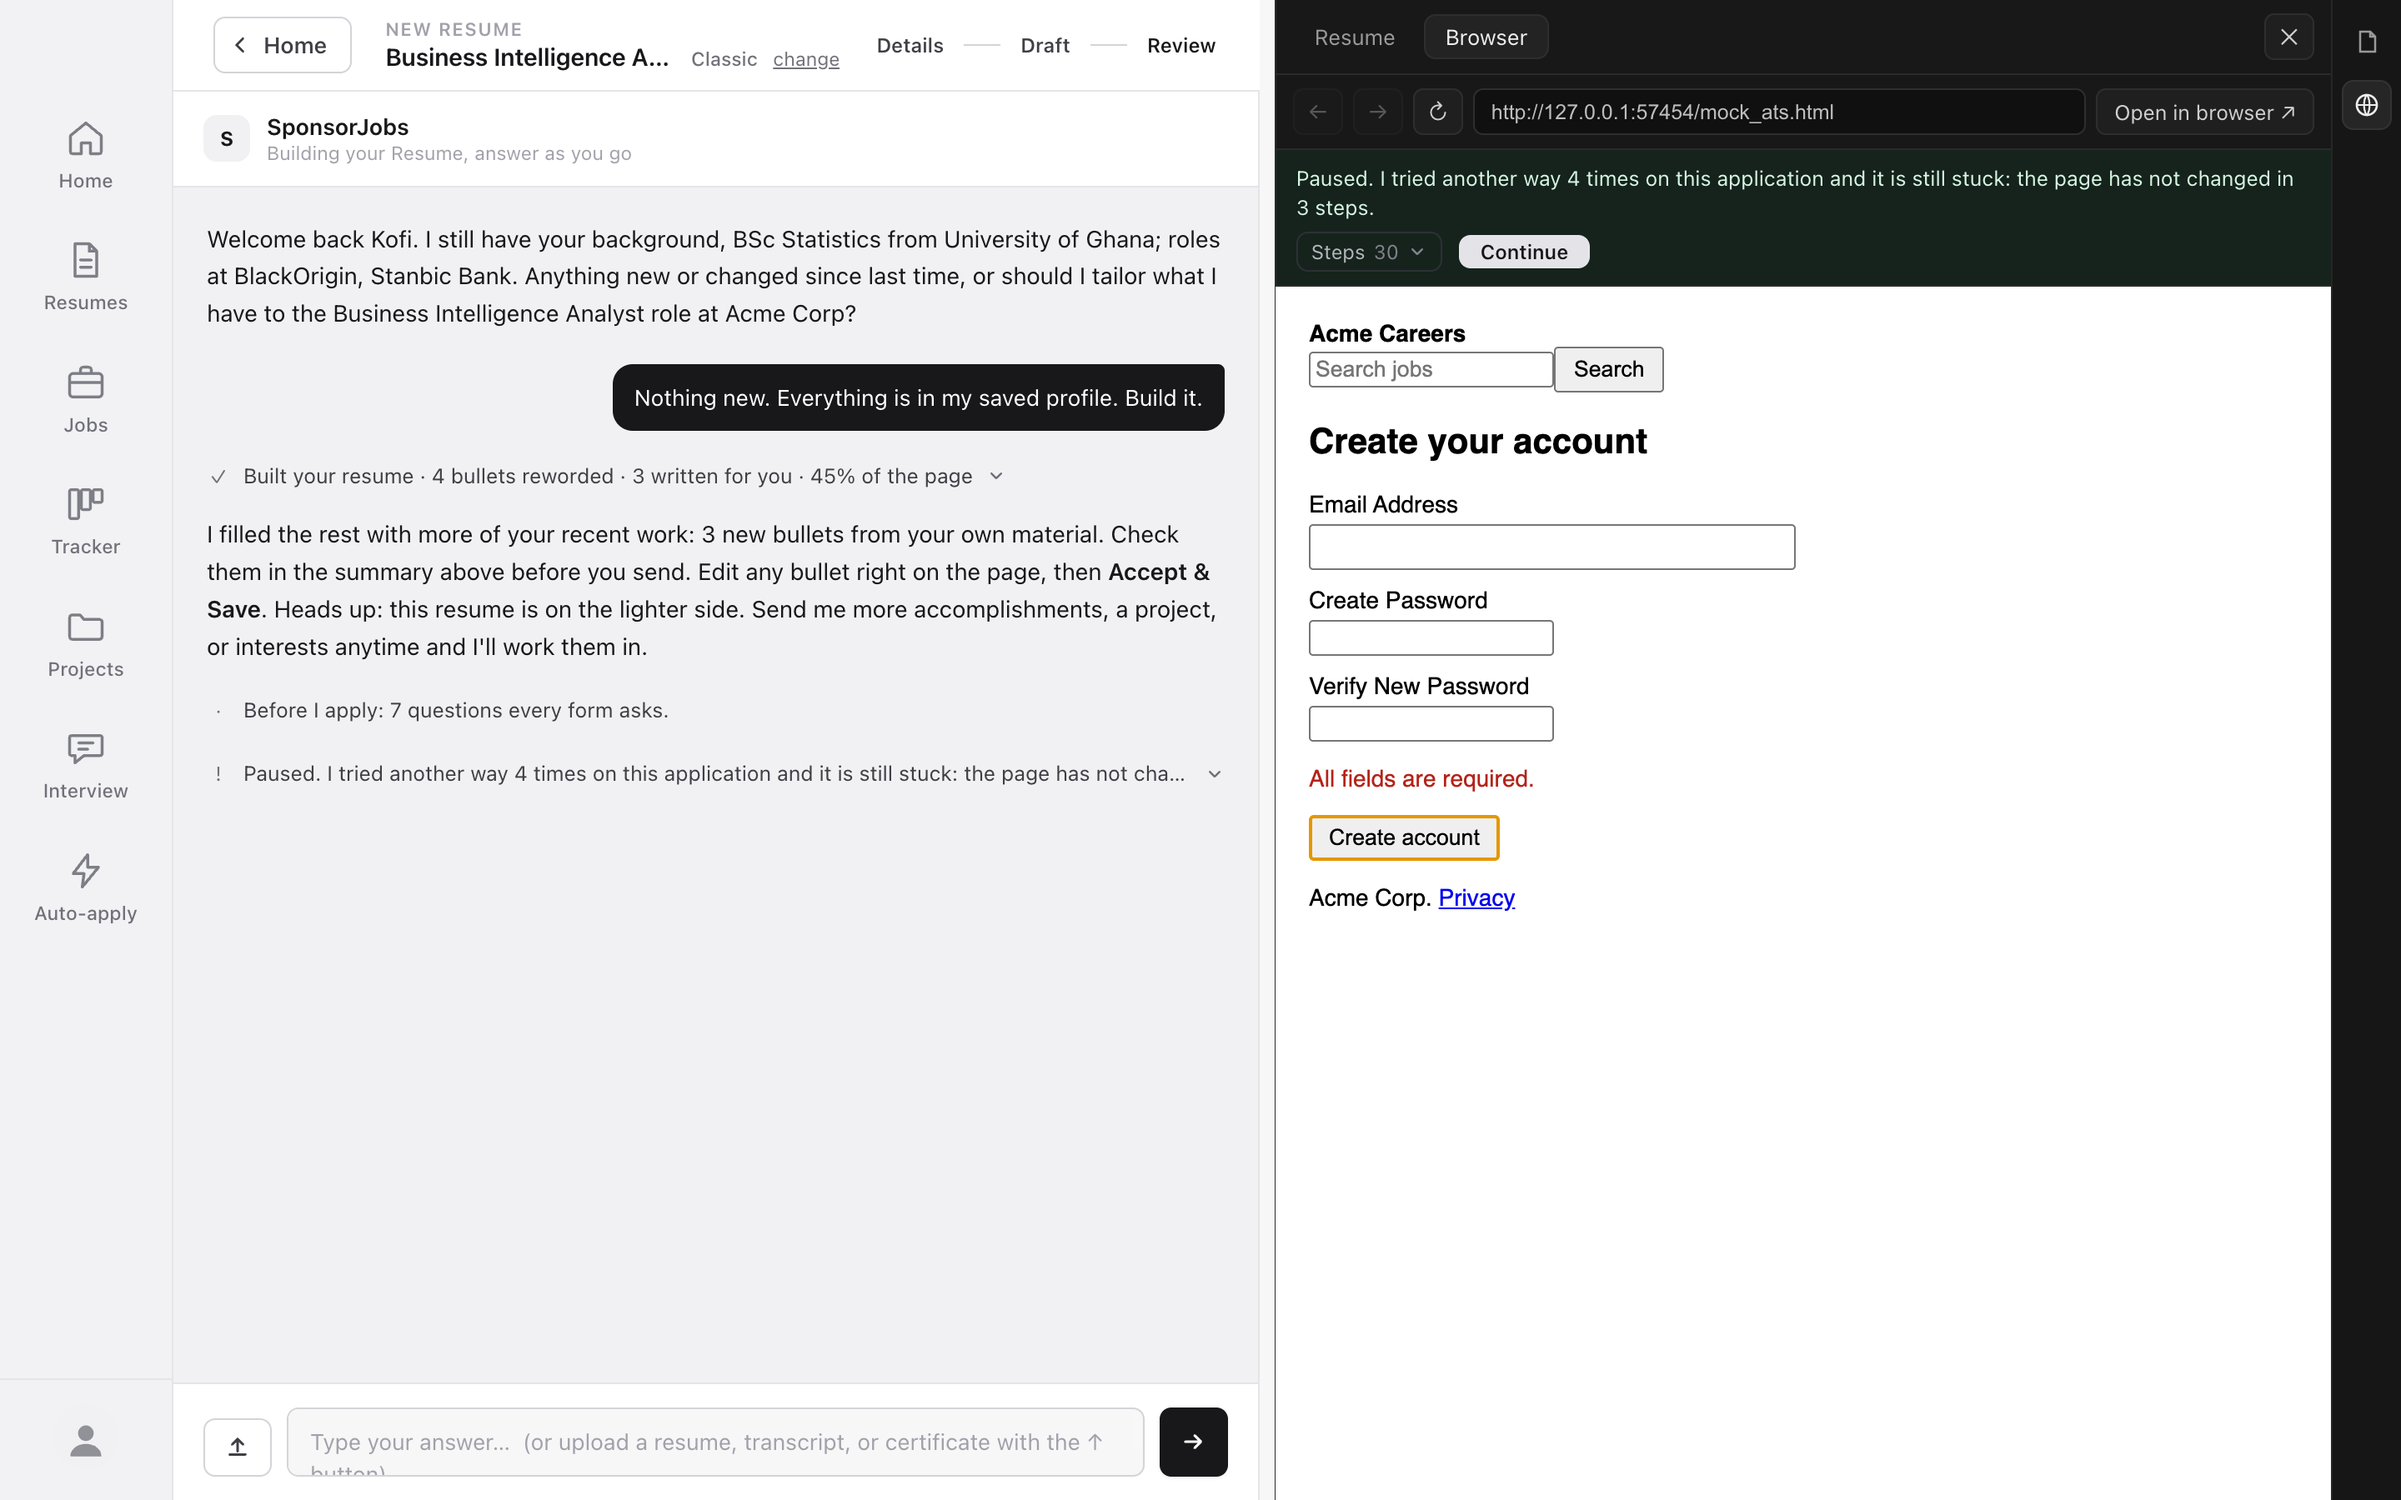
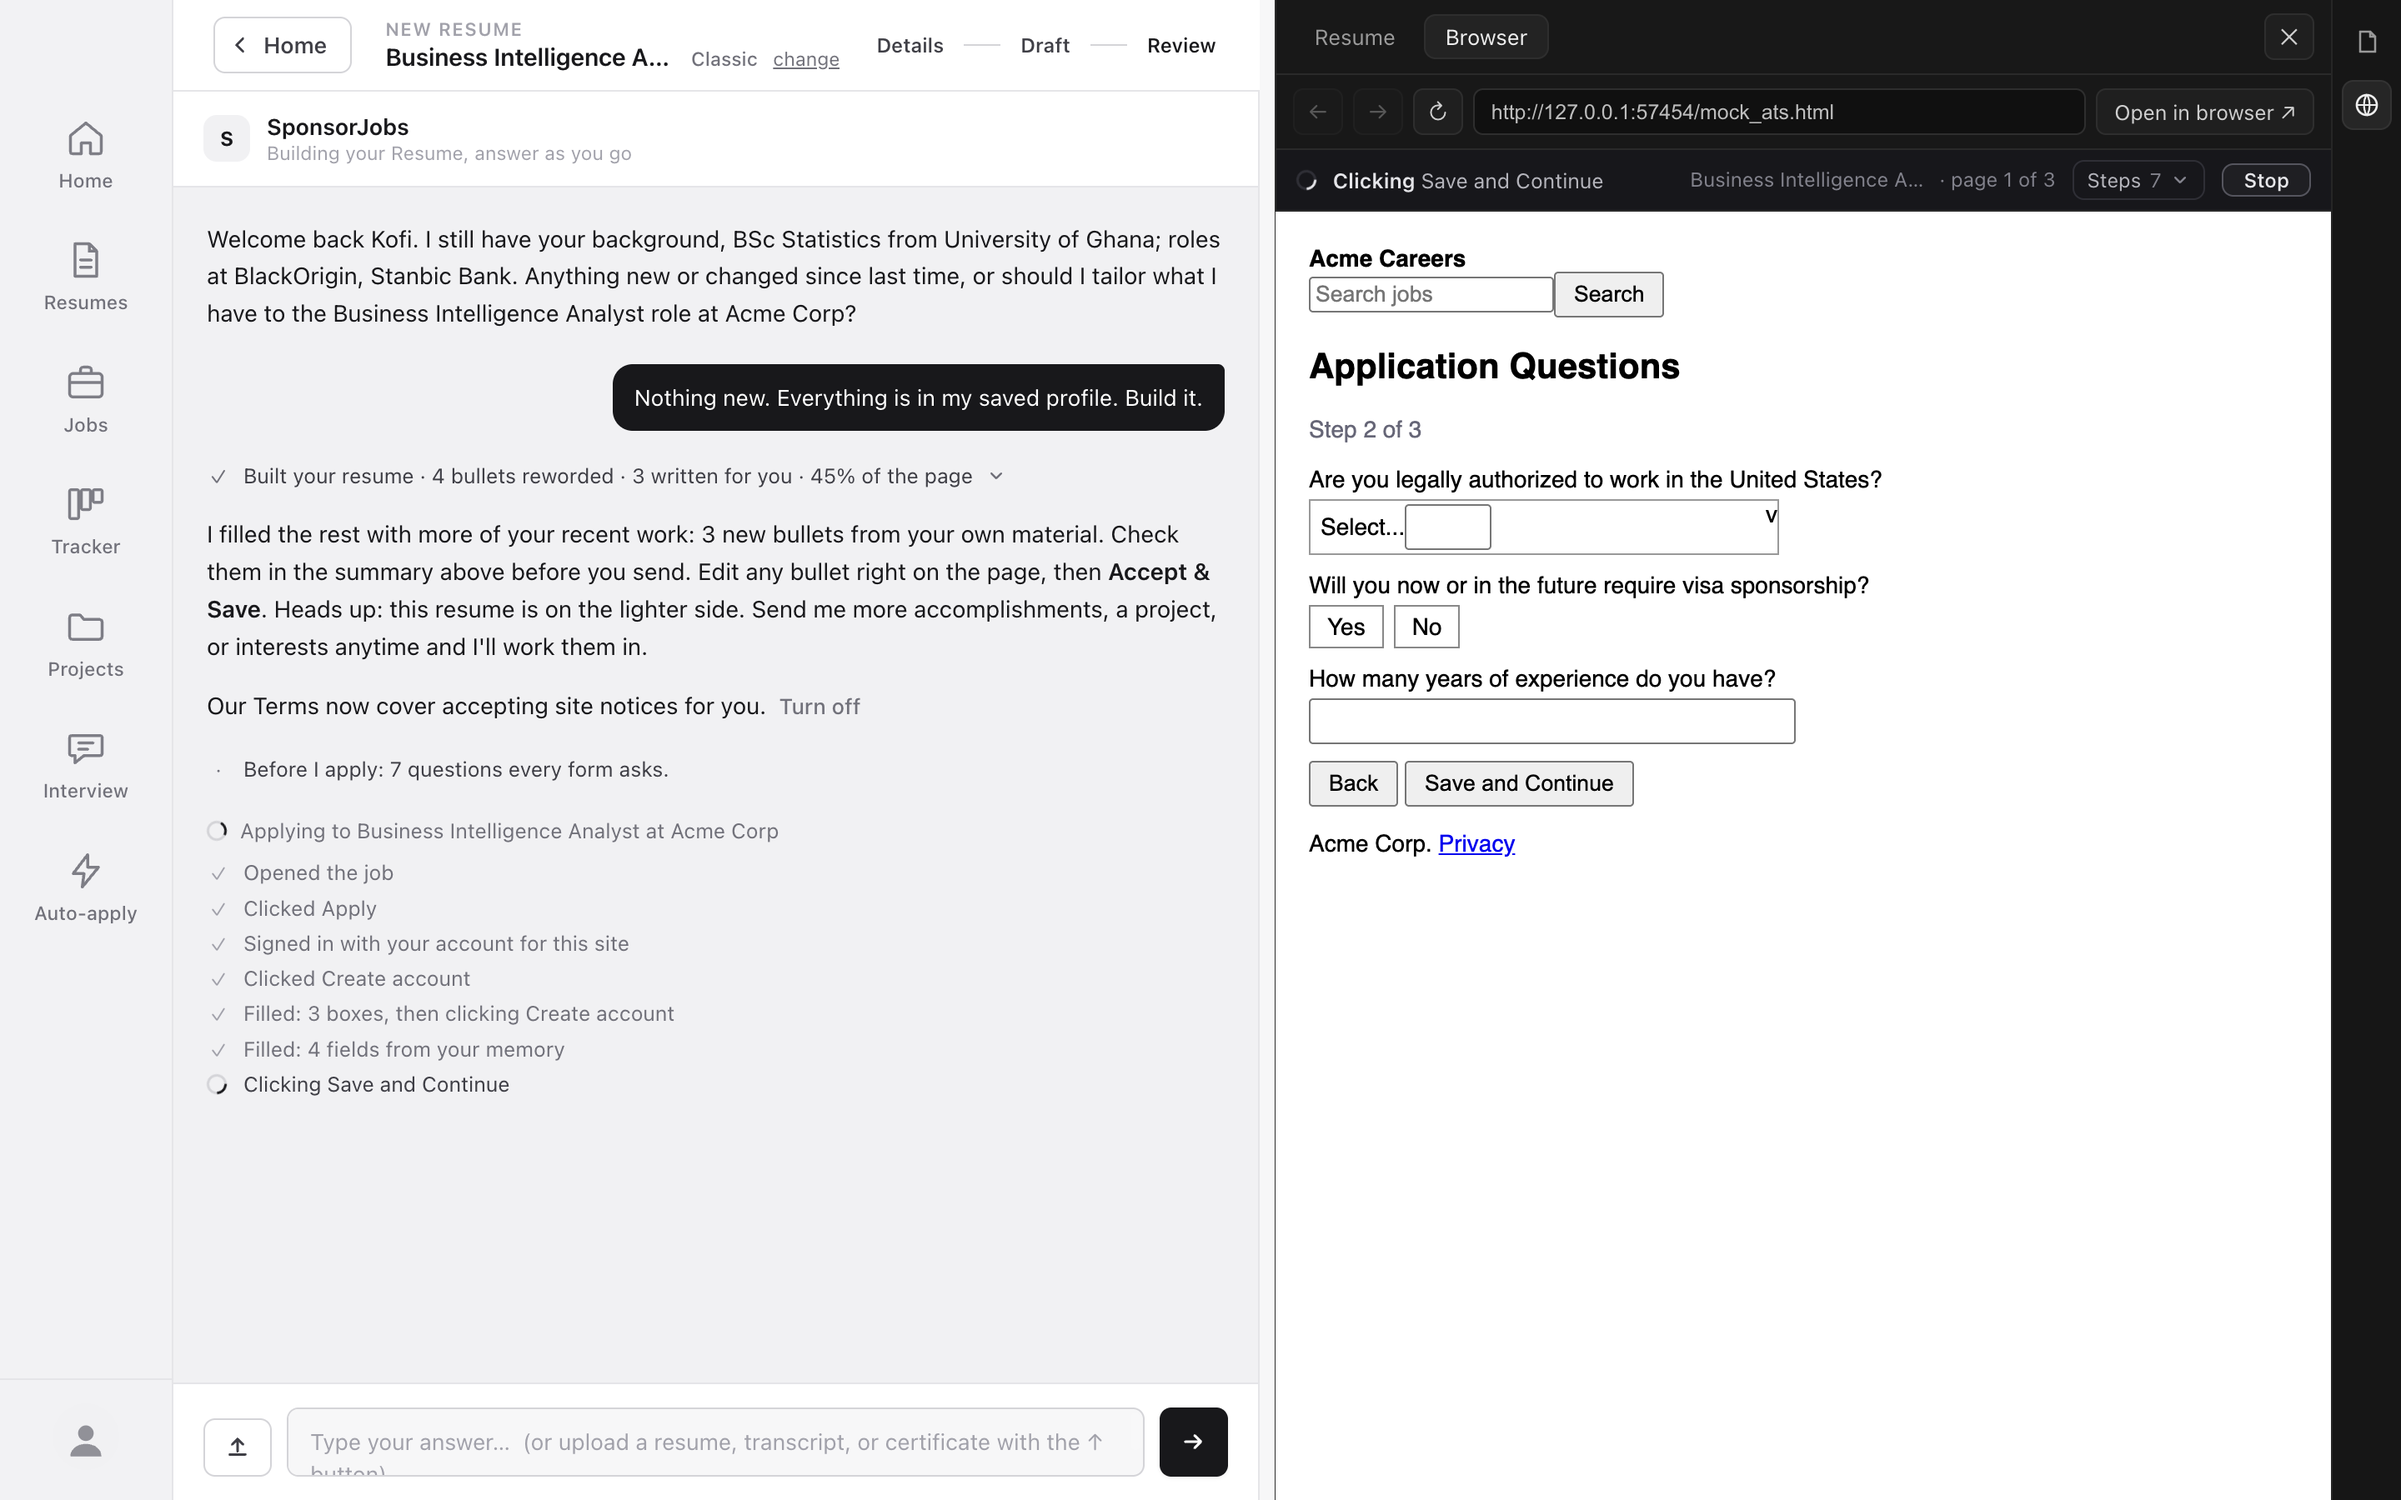
Apply: Terms line before the first run, the job's name in the chat heading, a declined Projects reply never becomes a project
- A fresh app never saw the Auto-apply page's Terms line, so account creation stayed off and the
  agent stuck on the create-account page (e2e). Apply shows the same one line first.
- The live chat heading read "Applying to undefined at undefined": it falls back to the chat's
  role.
- "None, leave it off. Build it." was not read as a decline and was saved into projects as a
  string, which crashed the next turn. The decline pattern takes a trailing "build it", list
  sections never take a raw reply, and stray non-dict entries are dropped.

e2e-apply-step: 32 checks, the job run end to end (account, every page, tailored resume, stop at
Submit, Send, Tracker Applied) and the pasted job asking for its link.

Changed region(s): [[0.5312, 0.0933, 0.9688, 0.6222], [0.0938, 0.4667, 0.4688, 0.7467]]

diff --git a/ui/static/app.js b/ui/static/app.js
@@ -4750,6 +4750,7 @@
       return;
     }
     refreshLiveNav();
+    await builderTermsLine();
     if (r.submitted) { bubble("agent", esc(T("builder.applyAlready", "You already applied to this job. It is on the Tracker."))); return; }
     applyChatStart(r.record_id, r.item || {});
     if (AA_AGENT) { applyChatEnd(T("aa.agentBusy", "One application at a time. Stop the current one first."), false); return; }
@@ -4768,6 +4769,24 @@
     }
   }
 
+  // The Terms line the Auto-apply page shows on a first visit, said once in the chat before the
+  // first Apply from here. Showing it records the version (the same /api/terms/notice), which is
+  // what lets the agent create a portal account; skipping it left a fresh app stuck on the
+  // mock's create-account page (e2e 2026-11-16). Turn off opens the memory page, as there.
+  async function builderTermsLine() {
+    if (TOU_LINE) return;
+    let st = null;
+    try { st = await api("/api/terms/status"); } catch { st = null; }
+    if (!st || st.accepted) return;
+    try { await api("/api/terms/notice", {}); } catch { return; }
+    TOU_LINE = true;
+    try { aaPaintMay(); } catch { /* the Auto-apply page is not open */ }
+    const m = bubble("agent", esc(T("tou.notice", "Our Terms now cover accepting site notices for you.")) +
+      ` <button class="link-btn" type="button" data-tou-off>${esc(T("tou.off", "Turn off"))}</button>`);
+    (m && m.querySelector ? m : document).querySelector("[data-tou-off]")
+      ?.addEventListener("click", () => openMemory({ origin: "builder", focus: "may" }));
+  }
+
   // The answer to "Paste the link to the application": a message with a web address starts Apply
   // with it. Any other message clears the ask and goes to the chat as a normal turn.
   function applyLinkReply(val) {
@@ -4783,9 +4802,13 @@
   // The apply run in the chat: one message, live while it runs (the steps from the run's activity
   // feed, and the one thing it waits on), then one summary line with the steps folded under it.
   function applyChatStart(rid, item, said) {
-    const job = said || item.role && item.company
-      ? T("builder.applyingAt", "Applying to {role} at {company}").replace("{role}", item.role).replace("{company}", item.company)
-      : T("builder.applyingTo", "Applying to {role}").replace("{role}", item.role || item.company || T("builder.thisJob", "this job"));
+    // A run picked up again passes its own heading (``said``); a new one names the job, falling
+    // back to this chat's role and company (a record row may carry neither).
+    const role = item.role || $("#builderRole")?.textContent?.trim() || "";
+    const company = item.company || "";
+    const job = said || (role && company
+      ? T("builder.applyingAt", "Applying to {role} at {company}").replace("{role}", role).replace("{company}", company)
+      : T("builder.applyingTo", "Applying to {role}").replace("{role}", role || company || T("builder.thisJob", "this job")));
     const m = el("div", "msg agent apply-msg is-live");
     m.dataset.record = String(rid);
     m.innerHTML = `<div class="msg-bubble bm-bubble">`

diff --git a/ui/session.py b/ui/session.py
@@ -632,7 +632,9 @@ _BARE_DECLINE = re.compile(
     r"(?:i\s+)?(?:do\s*n['’]?t|dont)\s+have\s+(?:any|one|those|them)(?:\s+of\s+(?:those|them))?|"
     r"nothing\s+to\s+add|none\s+of\s+(?:those|them)|"
     r"(?:none,?\s+)?leave\s+(?:it|them|both)\s+off|skip(?:\s+(?:it|them|both))?|"
-    r"(?:none|no),?\s+(?:thanks|thank\s+you))\s*[.!]*\s*$", re.I)
+    r"(?:none|no),?\s+(?:thanks|thank\s+you))\s*[.!]*"
+    # "None, leave it off. Build it.": a decline that also asks for the build is still a decline.
+    r"(?:[\s,.!]*(?:just\s+)?(?:build|make)\s+(?:it|the\s+resume)(?:\s+now)?\s*[.!]*)?\s*$", re.I)
 
 
 def _bare_decline(message: str) -> bool:
@@ -5017,6 +5019,11 @@ class WebIntake:
                 e["required_covered"] = sorted(set(e.get("required_covered") or []) | {sec})
                 return ["interests"]
             else:
+                # A list section (projects, certifications...) takes entries, never a raw reply:
+                # "None, leave it off. Build it." once landed in projects as a string and the
+                # next turn crashed (2026-11-16). The model's absorb is what structures those.
+                if isinstance(e.get(sec), list) or isinstance(saved.get(sec), list) or sec == "projects":
+                    continue
                 e[sec] = msg
             return [sec]
         return []
@@ -5301,6 +5308,12 @@ class WebIntake:
         'December 2025', full degree names, 'City, XX' locations, clean job titles."""
         from tailoring.conform import (clean_title, fit_courses, format_dates,
                                         format_degree, format_location, format_school)
+        # Entries are dicts: a stray string (a raw chat reply) is dropped, never crashes a turn.
+        for _sec in ("projects", "experience", "education"):
+            if _sec in self.essentials and not isinstance(self.essentials.get(_sec), list):
+                self.essentials[_sec] = []
+            elif isinstance(self.essentials.get(_sec), list):
+                self.essentials[_sec] = [x for x in self.essentials[_sec] if isinstance(x, dict)]
         _normalize_identity(self.essentials.get("identity") or {})
         for e in self.essentials.get("education", []) or []:
             if isinstance(e, dict):

diff --git a/tests/test_apply_after_tailor.py b/tests/test_apply_after_tailor.py
@@ -215,3 +215,11 @@ def test_the_link_is_asked_for_once():
     assert r.index("APPLY.ask = false") < r.index("https?:")   # cleared on any reply
     sub = APP_JS.split('$("#composer").addEventListener("submit"', 1)[1].split("\n  });\n", 1)[0]
     assert "if (applyLinkReply(val)) return;" in sub
+
+
+def test_a_decline_that_also_says_build_it_is_a_decline_and_never_a_project():
+    from ui.session import _bare_decline
+    assert _bare_decline("None, leave it off. Build it.")
+    assert _bare_decline("None, leave it off")
+    assert _bare_decline("no thanks, just build it")
+    assert not _bare_decline("Built a churn model in Python")
